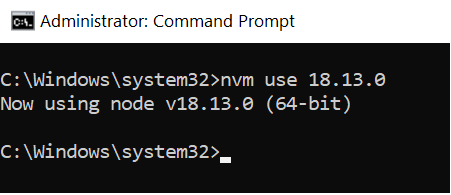
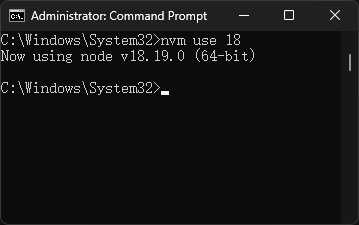
Edit tutorial according to Professor Wand's comments
Program Versions:
nvm-windows: 1.1.12
node: 18.19.0
npm: 10.2.3

diff --git a/tutorials/week1-getting-started.md b/tutorials/week1-getting-started.md
@@ -20,7 +20,7 @@ If you run into any difficulties following any of these steps, please post (in a
 
 Node.js is a JavaScript runtime built on Chrome's V8 JavaScript engine.
 
-For this class, you will need Node.js version 18 (18.13.0 was the latest version at time of writing, although any 18.x or 16.x should work in theory). 
+For this class, you will need Node.js version 18 (18.19.0 was the latest version at time of writing, although any 18.x or 16.x should work in theory). 
 There are many ways that you can install Node.js: for instance, you can use a package manager like
 `snap` or `homebrew` to install it; you can download an installer directly from the Node.js website, and you can,
 of course, build it from source. However, due to the complexity of running different Node.js versions on the same machine, we *very strongly* suggest using `nvm`, as explained below.
@@ -34,8 +34,9 @@ have previously installed Node.js.
 
 ## Installing NodeJS with NVM for Windows
 
+Before starting the installation, make sure to kill your Visual Studio Code if you have it installed. To do that on Windows, open a command prompt(type `cmd` in the windows start bar, then select "Run as administrator") and run the command `taskkill.exe /IM code.exe`.
 
-1. Download `nvm-setup.zip` from the most recent release of [nvm-windows](https://github.com/coreybutler/nvm-windows/releases) (at time of writing this document, version was 1.1.10).
+1. Download `nvm-setup.zip` from the most recent release of [nvm-windows](https://github.com/coreybutler/nvm-windows/releases) (at time of writing this document, version was 1.1.12).
 
    - ![image](./assets/week1-getting-started/node/download-nvmw.png)
 2. Extract the contents of `nvm-setup.zip` and run the executable `nvm-setup.exe`.
@@ -47,24 +48,15 @@ have previously installed Node.js.
 6. Verify the installation, run the command `nvm version`
    - This should display the version of nvm installed.
    - ![image](./assets/week1-getting-started/node/nvmw-verification.png)
-7.  Run the command `nvm list available` to display all available NodeJS versions.
+7. Run the command `nvm list available` to display all available NodeJS versions.
    - ![image](./assets/week1-getting-started/node/nvmw-list-available.png)
+8. Install the latest LTS (Long term supported, as opposed to the "development") version of Node.js version 18 available using the command `nvm install 18`.
+9. To use this version of NodeJS, run the command `nvm use 18`.
+   - ![image](./assets/week1-getting-started/node/nvmw-use-18.png)
 
-8.  Install the latest LTS (Long term supported, as opposed to the "development") version of Node.js available using the command `nvm install lts`.
-9.  To use this version of NodeJS, run the command `nvm use lts`.
-10. Now, NodeJS should be installed and ready for use. To verify the installation run the below commands:
-   - `node -v`
-   - `npm -v`
-
-You should see something like the following As of 1/09/23 on Windows, the most current versions were: `node: 18.13.0` and `npm: 8.19.3`
-  
-- ![image](./assets/week1-getting-started/node/nvmw-use-18.png)
-
+<!-- Removed step 10 because it overlaps with Verification -->
 
 *Troubleshooting with VSCode*: Did you follow these instructions successfully, but find a "Command not found" error when you try to run `npm` in VSCode? Try this: Close VSCode completely. Re-open it. In your command shell in VSCode, try again. We have noticed that if you have VSCode open while installing `nvm`, it is possible that VSCode will not see the new software installation until it's closed and re-opened. You can also confirm that VSCode correctly sees the NodeJS installation by running `echo %PATH%` in your windows command shell in VSCode: it should include an entry similar to `C:\Program Files\nodejs`.
-
-*Working with MacOS M1 Silicon*: If you have macOS on M1 Silicon 2022, you can find instructions [here](https://benscheer.medium.com/how-to-install-nvm-and-node-on-macos-m1-silicon-in-2022-172fba82d92f).
-
 
 ## Installation Steps (Linux / Mac)
 
@@ -75,15 +67,17 @@ out `nvm`, it should be working. If you see `nvm: command not found` or no
 feedback, open a new terminal and trying again or restart from step 1.
 4. Install the latest LTS (Long term supported, as opposed to the "development") version of Node.js by typing `nvm install 18`.
 
+*Working with MacOS M1 Silicon*: If you have macOS on M1 Silicon 2022, you can find instructions [here](https://benscheer.medium.com/how-to-install-nvm-and-node-on-macos-m1-silicon-in-2022-172fba82d92f).
+
 ## Verification
 
-1. Open a shell or windows powershell.
+1. Open a shell (for Linux / Mac) or windows powershell/command prompt (for Windows).
 2. Run the command `node -v`
-  - This should print the current version of nodeJS installed (v18.x.x)
+  - This should print the current version of nodeJS installed (v18.x.x).
 3. Run the command `npm -v`
-  - This should print the current version of npm installed (v8.x.x)
-![image](./assets/week1-getting-started/node/verification.JPG)
-4. If you find that some other version is being used, and would like to change the default to 18, run the command `nvm alias default 18`
+  - This should print the current version of npm installed (v10.x.x).
+![image](./assets/week1-getting-started/node/verification.png)
+4. If you find that some other version is being used, run the command `nvm use 18`. For Linux / Mac, you can change the default to 18 by running the command `nvm alias default 18`.
 
 # Installing Visual Studio Code (VSCode)
 
@@ -92,6 +86,7 @@ While you are required to use *an* IDE for this class, it is not mandatory to us
 in another suitable IDE (like IntelliJ), then you are welcome to continue to use that. However, VSCode is the
 "supported" option: if you struggle to get things like the linter set up correctly in VSCode, we will be happy to help you. 
 However, we can't provide such support for all IDEs. 
+
 ## Pre-requisites
 
 - Administrative access on the host machine for software installation.
@@ -132,7 +127,8 @@ Below is a list of extensions that you may find useful.
 3. vscode-icons
 4. ESLint
 5. Andromeda (Color theme: Andromeda Colorizer)
-6. Jest Runner 
+6. Jest Runner (highly recommended)
+7. GitHub Copilot and GitHub Copilot Chat
 
 ![image](./assets/week1-getting-started/vsc/useful-extensions.JPG)
 
@@ -144,6 +140,12 @@ Below is a list of extensions that you may find useful.
 4. Done!
     - ![image](./assets/week1-getting-started/vsc/eslint-search.JPG)
 
+## Additional Settings (Optional)
+
+You may find it useful to add some settings:
+
+1. Turn on "bracket pair colorization" (in File > Preferences > Settings)
+2. Add a keybinding for formatting the current selection (in File > Preferences > Keyboard Shortcuts > Format Selection )
 
 # Getting Started With Typescript
 
@@ -154,27 +156,26 @@ Typescript is a superscript of JavaScript which adds type information and other 
 - NodeJS
 - VSCode (recommended but not required)
 
-## Installation
-
-1. Open VSCode and press the ctrl + `~` (Tilde or back tick key) to open a terminal.
-  - Optionally you can open a separate shell (Do not use powershell)
-2. Run the command `npm install -g typescript` in the terminal.
-  - Typescript should now be installed globally and accessible from the terminal.
-3. Verify the installation using the command `tsc -v` in the terminal. (Do NOT use powershell)
-  - ![image](./assets/week1-getting-started/ts/installing-tsc.JPG)
+<!-- Remove the old instruction for installing Typescript globally and use Professor Wand's version of Hello World with local installation -->
 
 ## Hello World
 
 1. Create a new directory and open it with VSCode.
-2. Create a new file called `hello-world.ts`
+2. Create a new file called `hello-world.ts`. 
+   - You can do this from within VSC by typing ctrl + `N`, but this is not necessary.
 3. Add the following code to the file:
   ```
     console.log('Hello, World!');
   ```
-4. Open the terminal with ctrl + `~`.
+4. Open the terminal with ctrl + `~` or ctrl + '`' (ctrl-backtick)
   - Ensure that you are in the same directory as `hello-world.ts`.
-5. Run the command `tsc hello-world.ts`
-  - This will generate a JS file called `hello-world.js`
-6. Run the file with node using the command `node hello-world.js`.
+5. Install typescript by running the command `npm install --save typescript` . 
+  - This will install Typescript locally in the current directory.
+6. Run the command `npx ts-node hello-world.ts`.
+  - If you are prompted, enter `y`.
   - This will give the result below.
-  - ![image](./assets/week1-getting-started/ts/result.JPG)
+  - ![image](./assets/week1-getting-started/ts/result.png)
+
+<!-- Add troubleshooting here because I ran into this problem here -->
+
+*Troubleshooting with VSCode*: Did you follow these instructions successfully, but find a "Command not found" error when you try to run `npm` in VSCode? Try this: Close VSCode completely. Re-open it. In your command shell in VSCode, try again. We have noticed that if you have VSCode open while installing `nvm`, it is possible that VSCode will not see the new software installation until it's closed and re-opened. You can also confirm that VSCode correctly sees the NodeJS installation by running `echo %PATH%` in your windows command shell in VSCode: it should include an entry similar to `C:\Program Files\nodejs`.
